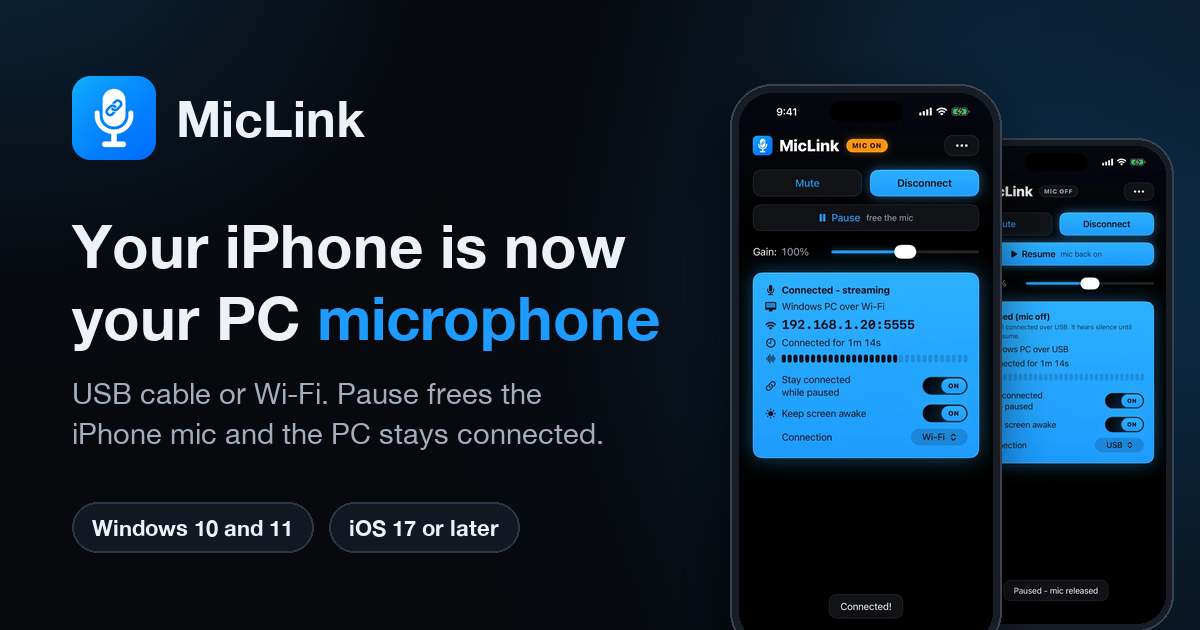
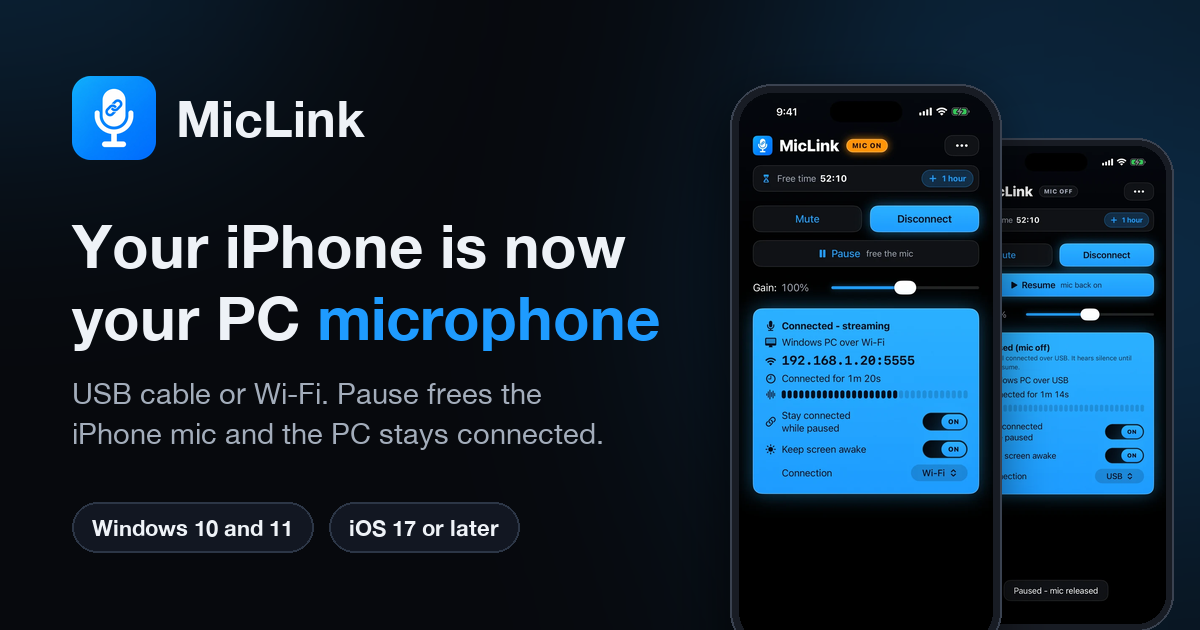
Update site images

Changed region(s): [[0.6167, 0.2111, 0.9867, 0.8143], [0.7092, 0.9349, 0.74, 0.9952]]

diff --git a/index.html b/index.html
@@ -195,11 +195,11 @@
       <div class="phones-scroller">
         <div class="phones" data-scroller role="group" aria-label="MicLink on iPhone">
           <figure class="phone-shot">
-            <div class="phone"><img src="assets/img/screen-streaming.webp" width="603" height="1310" loading="lazy" decoding="async" alt="MicLink on iPhone while streaming to a Windows PC: Mute, Disconnect and Pause buttons, a gain slider and a status card that reads Connected."></div>
+            <div class="phone"><img src="assets/img/screen-streaming.webp" width="603" height="1310" loading="lazy" decoding="async" alt="MicLink on iPhone while streaming to a Windows PC: a row with the free time left and a + 1 hour button, then Mute, Disconnect and Pause buttons, a gain slider and a status card that reads Connected."></div>
             <figcaption><strong>Live</strong>Your iPhone is the PC's microphone.</figcaption>
           </figure>
           <figure class="phone-shot">
-            <div class="phone"><img src="assets/img/screen-paused.webp" width="603" height="1310" loading="lazy" decoding="async" alt="MicLink while paused: the microphone is off, the Pause button has become Resume and the status card says the PC is still connected."></div>
+            <div class="phone"><img src="assets/img/screen-paused.webp" width="603" height="1310" loading="lazy" decoding="async" alt="MicLink while paused: the microphone is off, the free time left is still shown, the Pause button has become Resume and the status card says the PC is still connected."></div>
             <figcaption><strong>Paused</strong>The mic is free. The PC is still connected.</figcaption>
           </figure>
           <figure class="phone-shot">
